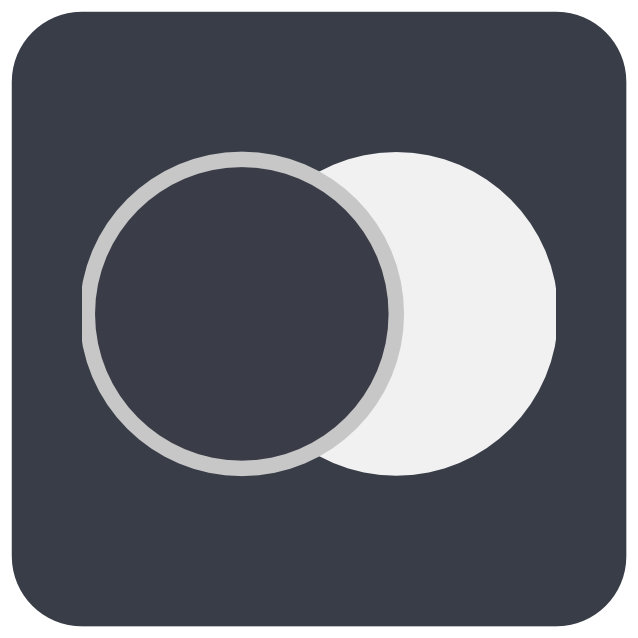
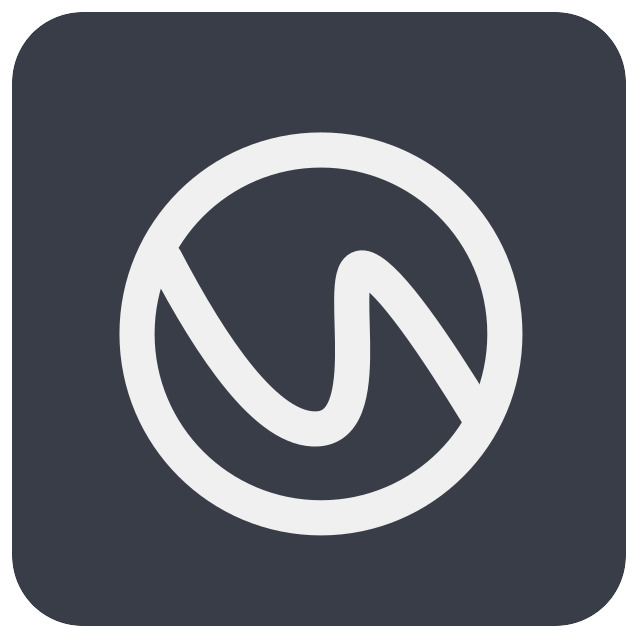
update docs and changelog

Changed region(s): [[0.1191, 0.2085, 0.7743, 0.8636], [0.6552, 0.2382, 0.8934, 0.685], [0.7445, 0.685, 0.7743, 0.7147]]

diff --git a/docs/volume_annotation/tools.md b/docs/volume_annotation/tools.md
@@ -56,7 +56,7 @@ The following interactions and modes become available when working with some of 
 **Overwrite Everything**: When using the brush or trace tool for labeling, you can annotate any voxel without considering whether it has already been labeled as a different segment or if it is unlabelled. This allows you to draw over existing segments.
 
 ![Overwrite Empty Voxels Modifier](./images/overwrite-empty-modifier.jpg){align=left width="60"} 
-**Only Overwrite Empty Areas**: In contrast to the `Overwrite Everything` modifier, this modifier forces the brush & trace tools to only label voxels without any segment ID ("empty areas"). This is useful when annotating segments that directly touch each other to avoid accidental overwrites.
+**Only Overwrite Empty Areas**: In contrast to the `Overwrite Everything` mode, this mode forces the brush & trace tools to only label voxels without any segment ID ("empty areas"). This is useful when annotating segments that directly touch each other to avoid accidental overwrites. In case of erasing, only the current segment ID is overwritten. Both modes share one toggle button in the toolbar: its icon shows the current mode and the button is highlighted while `Only Overwrite Empty Areas` is active. Holding ++ctrl++ / ++cmd++ temporarily switches to the other mode.
 
 ![Interpolation Button](./images/interpolation-modifier.jpg){align=left width="60"} 
 **Interpolation**: Annotate a segment, skip a few sections in the Z direction, and annotate it again. Now, you can interpolate between the two segments. Read more on the [interpolation](#volume-interpolation) below. 

diff --git a/unreleased_changes/10070.md b/unreleased_changes/10070.md
@@ -1,0 +1,10 @@
+### Added
+- While a modifier key temporarily switches the active tool (e.g., Shift in the brush tool switches to the segment picker), the actually active tool is additionally highlighted in the toolbar. This is especially helpful when cycling through tools with Shift+W.
+
+### Changed
+- The overwrite mode is now toggled with a single button that shows the current mode and is highlighted while only empty areas are overwritten. The overwrite-mode icons were redesigned.
+- Tool buttons in the toolbar now show a highlighted border on hover.
+
+### Fixed
+- Fixed that the brush-size icon was clipped and that the overwrite-mode and restrict-floodfill icons were smaller than the other toolbar icons.
+- Fixed that hovered elements in the navbar (e.g., the position field) only highlighted their top and bottom borders.
